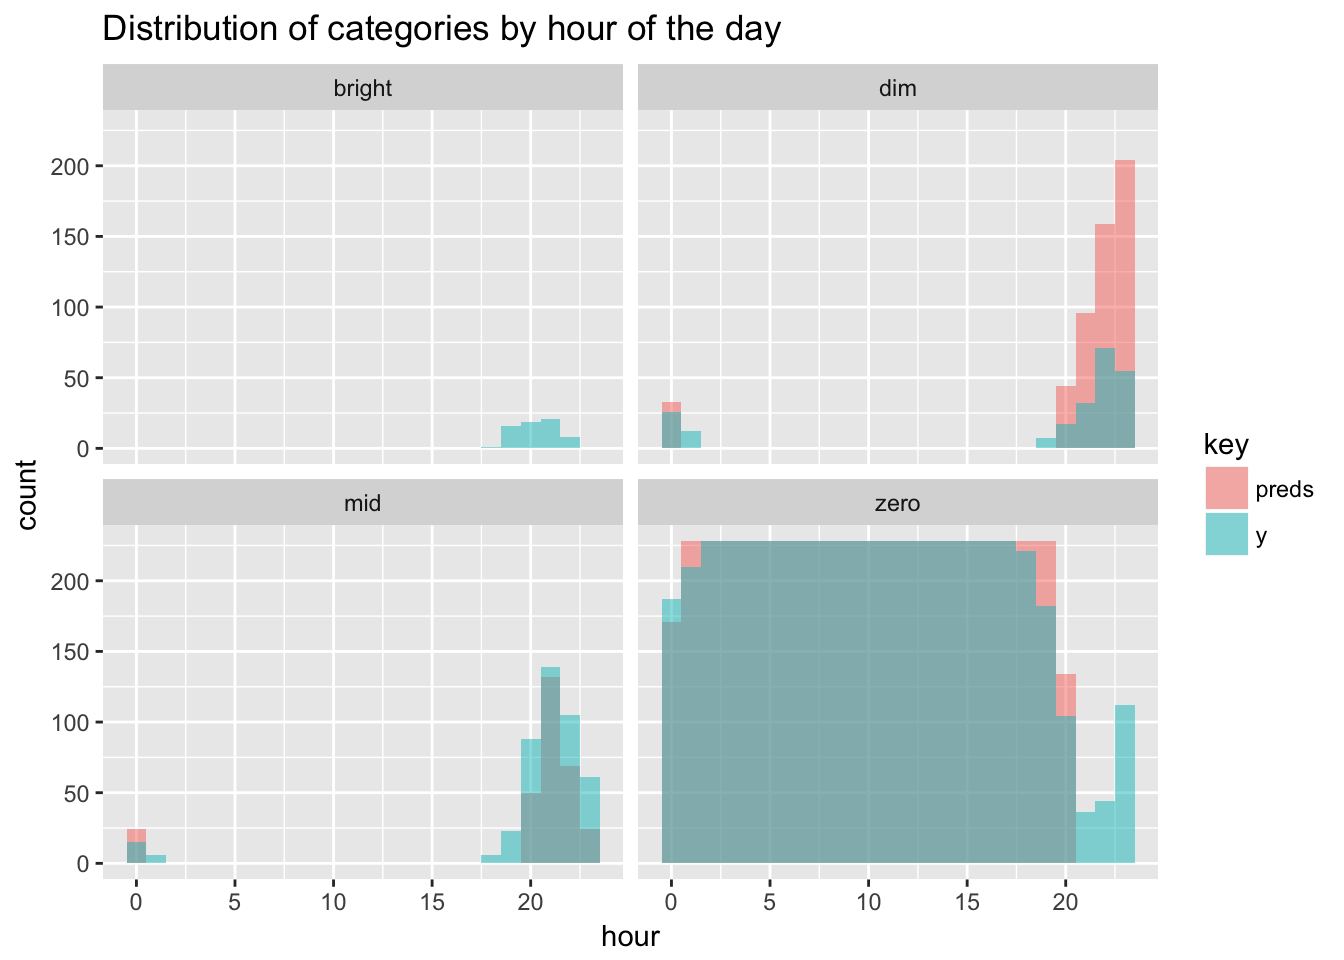
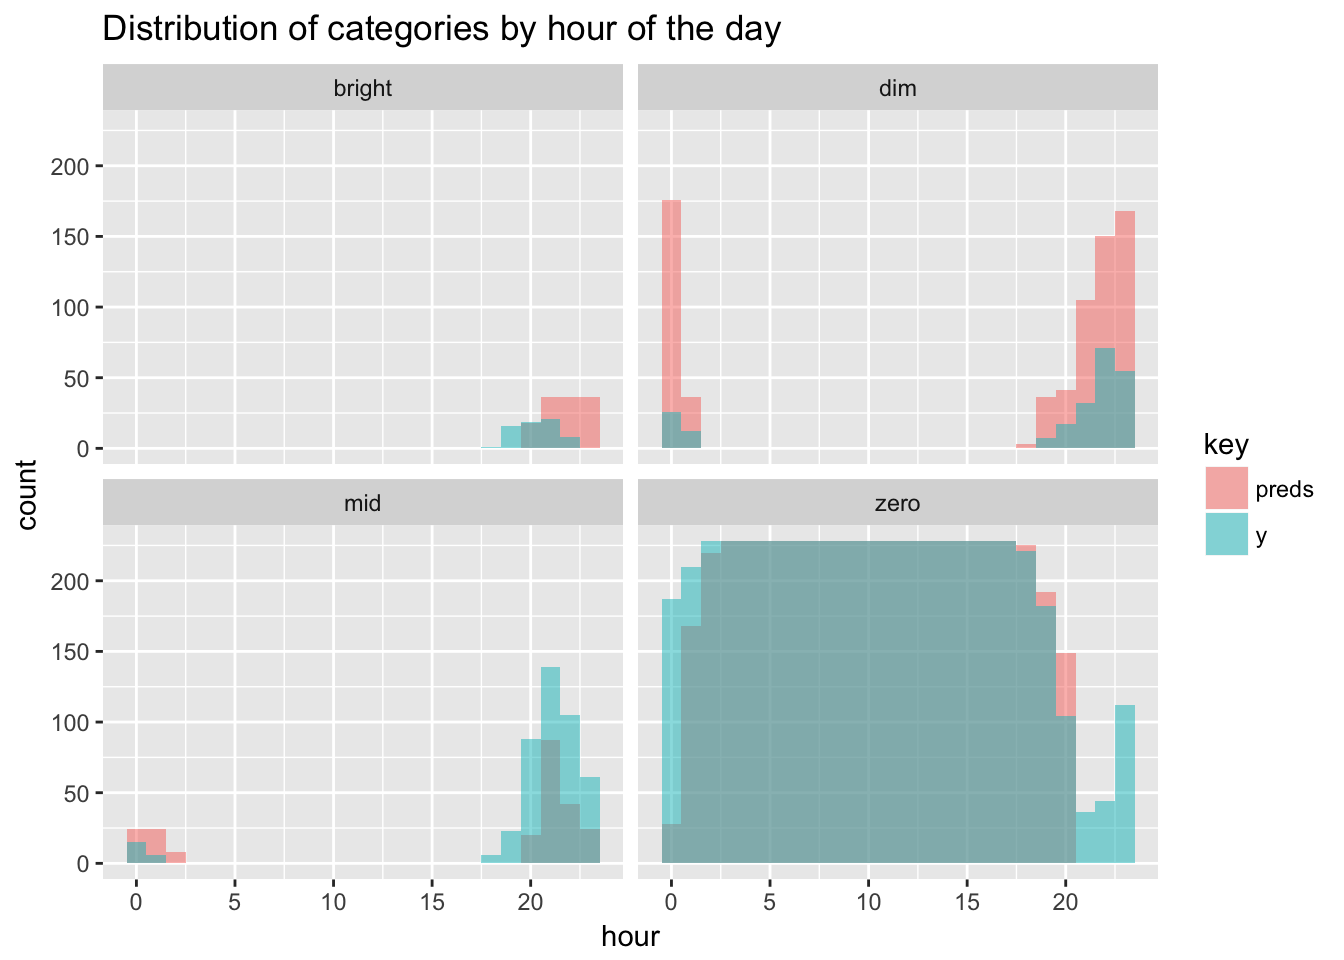
disqus fnoote fix

diff --git a/blog/self-learning-hue-lights/index.html b/blog/self-learning-hue-lights/index.html
@@ -44,10 +44,10 @@
 
 
     
-    <link rel="stylesheet" href="../../css/reset.css?t=1516180724">
-    <link rel="stylesheet" href="../../css/main.css?t=1516180724">
+    <link rel="stylesheet" href="../../css/reset.css?t=1516212680">
+    <link rel="stylesheet" href="../../css/main.css?t=1516212680">
     
-        <link rel="stylesheet" href="../../css/override.css?t=1516180724">
+        <link rel="stylesheet" href="../../css/override.css?t=1516212680">
     
 
 
@@ -277,10 +277,10 @@ gbmFit &lt;- train(y ~ ., data = training,
 table(preds, testing$y)</code></pre>
 <pre><code>##         
 ## preds     dim  mid bright zero
-##   dim      94  216     34  192
-##   mid      72  135      6   86
-##   bright    0    0      0    0
-##   zero     54   92     25 4466</code></pre>
+##   dim      96  206     31  382
+##   mid      46   81      6   96
+##   bright   37   57      0   32
+##   zero     41   99     28 4234</code></pre>
 <p>Most mistakes are made trying to classify bright and mid. The model gets 0 bright values right and only manages to do so correctly 14% of the time for mid. But when do errors happen? To dig a little deeper let’s look at the previous histogram of categories by hour again for the test set, but now with the predictions overlaid on top.</p>
 <p><img src="../../blog/2017/2017-05-14-hue_files/figure-html/unnamed-chunk-11-1.png" width="672" /></p>
 <p>Bright values were always going be hard to guess, but the model at least comes close in terms of hours, but off on the exact days. The majority of misclassification comes from overzealously predicting dim in the evening and around midnight, when it should really be either mid or zero. That looks like a workable scenario for me.</p>

diff --git a/blog/a-tidy-text-analysis-of-rick-and-morty/index.html b/blog/a-tidy-text-analysis-of-rick-and-morty/index.html
@@ -44,10 +44,10 @@
 
 
     
-    <link rel="stylesheet" href="../../css/reset.css?t=1516180724">
-    <link rel="stylesheet" href="../../css/main.css?t=1516180724">
+    <link rel="stylesheet" href="../../css/reset.css?t=1516212680">
+    <link rel="stylesheet" href="../../css/main.css?t=1516212680">
     
-        <link rel="stylesheet" href="../../css/override.css?t=1516180724">
+        <link rel="stylesheet" href="../../css/override.css?t=1516212680">
     
 
 
@@ -230,9 +230,9 @@ bigram_graph &lt;- df %&gt;%
   graph_from_data_frame()
 
 print(bigram_graph)</code></pre>
-<pre><code>## IGRAPH 7d93551 DN-- 310 280 -- 
+<pre><code>## IGRAPH 187fc32 DN-- 310 280 -- 
 ## + attr: name (v/c), season (e/c), n (e/n)
-## + edges from 7d93551 (vertex names):
+## + edges from 187fc32 (vertex names):
 ## [1] tiny        -&gt;rick    yeah        -&gt;yeah    ice         -&gt;cream  
 ## [4] god         -&gt;damn    whoa        -&gt;whoa   
 ##  [ reached getOption(&quot;max.print&quot;) -- omitted 20 entries ]

diff --git a/blog/an-animated-neural-net-implementation/index.html b/blog/an-animated-neural-net-implementation/index.html
@@ -44,10 +44,10 @@
 
 
     
-    <link rel="stylesheet" href="../../css/reset.css?t=1516180724">
-    <link rel="stylesheet" href="../../css/main.css?t=1516180724">
+    <link rel="stylesheet" href="../../css/reset.css?t=1516212680">
+    <link rel="stylesheet" href="../../css/main.css?t=1516212680">
     
-        <link rel="stylesheet" href="../../css/override.css?t=1516180724">
+        <link rel="stylesheet" href="../../css/override.css?t=1516212680">
     
 
 

diff --git a/blog/analyzing-my-spotify-listening-history/index.html b/blog/analyzing-my-spotify-listening-history/index.html
@@ -44,10 +44,10 @@
 
 
     
-    <link rel="stylesheet" href="../../css/reset.css?t=1516180725">
-    <link rel="stylesheet" href="../../css/main.css?t=1516180725">
+    <link rel="stylesheet" href="../../css/reset.css?t=1516212680">
+    <link rel="stylesheet" href="../../css/main.css?t=1516212680">
     
-        <link rel="stylesheet" href="../../css/override.css?t=1516180725">
+        <link rel="stylesheet" href="../../css/override.css?t=1516212680">
     
 
 

diff --git a/blog/creating-a-spotify-playlist-using-luigi/index.html b/blog/creating-a-spotify-playlist-using-luigi/index.html
@@ -44,10 +44,10 @@
 
 
     
-    <link rel="stylesheet" href="../../css/reset.css?t=1516180725">
-    <link rel="stylesheet" href="../../css/main.css?t=1516180725">
+    <link rel="stylesheet" href="../../css/reset.css?t=1516212680">
+    <link rel="stylesheet" href="../../css/main.css?t=1516212680">
     
-        <link rel="stylesheet" href="../../css/override.css?t=1516180725">
+        <link rel="stylesheet" href="../../css/override.css?t=1516212680">
     
 
 

diff --git a/blog/dockerized-shiny-app-development/index.html b/blog/dockerized-shiny-app-development/index.html
@@ -44,10 +44,10 @@
 
 
     
-    <link rel="stylesheet" href="../../css/reset.css?t=1516180724">
-    <link rel="stylesheet" href="../../css/main.css?t=1516180724">
+    <link rel="stylesheet" href="../../css/reset.css?t=1516212680">
+    <link rel="stylesheet" href="../../css/main.css?t=1516212680">
     
-        <link rel="stylesheet" href="../../css/override.css?t=1516180724">
+        <link rel="stylesheet" href="../../css/override.css?t=1516212680">
     
 
 

diff --git a/blog/starting-a-blogdown/index.html b/blog/starting-a-blogdown/index.html
@@ -44,10 +44,10 @@
 
 
     
-    <link rel="stylesheet" href="../../css/reset.css?t=1516180725">
-    <link rel="stylesheet" href="../../css/main.css?t=1516180725">
+    <link rel="stylesheet" href="../../css/reset.css?t=1516212680">
+    <link rel="stylesheet" href="../../css/main.css?t=1516212680">
     
-        <link rel="stylesheet" href="../../css/override.css?t=1516180725">
+        <link rel="stylesheet" href="../../css/override.css?t=1516212680">
     
 
 

diff --git a/categories/r/index.html b/categories/r/index.html
@@ -44,10 +44,10 @@
 
 
     
-    <link rel="stylesheet" href="../../css/reset.css?t=1516180725">
-    <link rel="stylesheet" href="../../css/main.css?t=1516180725">
+    <link rel="stylesheet" href="../../css/reset.css?t=1516212680">
+    <link rel="stylesheet" href="../../css/main.css?t=1516212680">
     
-        <link rel="stylesheet" href="../../css/override.css?t=1516180725">
+        <link rel="stylesheet" href="../../css/override.css?t=1516212680">
     
 
 

diff --git a/tags/ai/index.html b/tags/ai/index.html
@@ -44,10 +44,10 @@
 
 
     
-    <link rel="stylesheet" href="../../css/reset.css?t=1516180725">
-    <link rel="stylesheet" href="../../css/main.css?t=1516180725">
+    <link rel="stylesheet" href="../../css/reset.css?t=1516212680">
+    <link rel="stylesheet" href="../../css/main.css?t=1516212680">
     
-        <link rel="stylesheet" href="../../css/override.css?t=1516180725">
+        <link rel="stylesheet" href="../../css/override.css?t=1516212680">
     
 
 

diff --git a/tags/blogdown/index.html b/tags/blogdown/index.html
@@ -44,10 +44,10 @@
 
 
     
-    <link rel="stylesheet" href="../../css/reset.css?t=1516180725">
-    <link rel="stylesheet" href="../../css/main.css?t=1516180725">
+    <link rel="stylesheet" href="../../css/reset.css?t=1516212680">
+    <link rel="stylesheet" href="../../css/main.css?t=1516212680">
     
-        <link rel="stylesheet" href="../../css/override.css?t=1516180725">
+        <link rel="stylesheet" href="../../css/override.css?t=1516212680">
     
 
 

diff --git a/tags/deep-learning/index.html b/tags/deep-learning/index.html
@@ -44,10 +44,10 @@
 
 
     
-    <link rel="stylesheet" href="../../css/reset.css?t=1516180725">
-    <link rel="stylesheet" href="../../css/main.css?t=1516180725">
+    <link rel="stylesheet" href="../../css/reset.css?t=1516212680">
+    <link rel="stylesheet" href="../../css/main.css?t=1516212680">
     
-        <link rel="stylesheet" href="../../css/override.css?t=1516180725">
+        <link rel="stylesheet" href="../../css/override.css?t=1516212680">
     
 
 

diff --git a/tags/docker/index.html b/tags/docker/index.html
@@ -44,10 +44,10 @@
 
 
     
-    <link rel="stylesheet" href="../../css/reset.css?t=1516180725">
-    <link rel="stylesheet" href="../../css/main.css?t=1516180725">
+    <link rel="stylesheet" href="../../css/reset.css?t=1516212680">
+    <link rel="stylesheet" href="../../css/main.css?t=1516212680">
     
-        <link rel="stylesheet" href="../../css/override.css?t=1516180725">
+        <link rel="stylesheet" href="../../css/override.css?t=1516212680">
     
 
 
